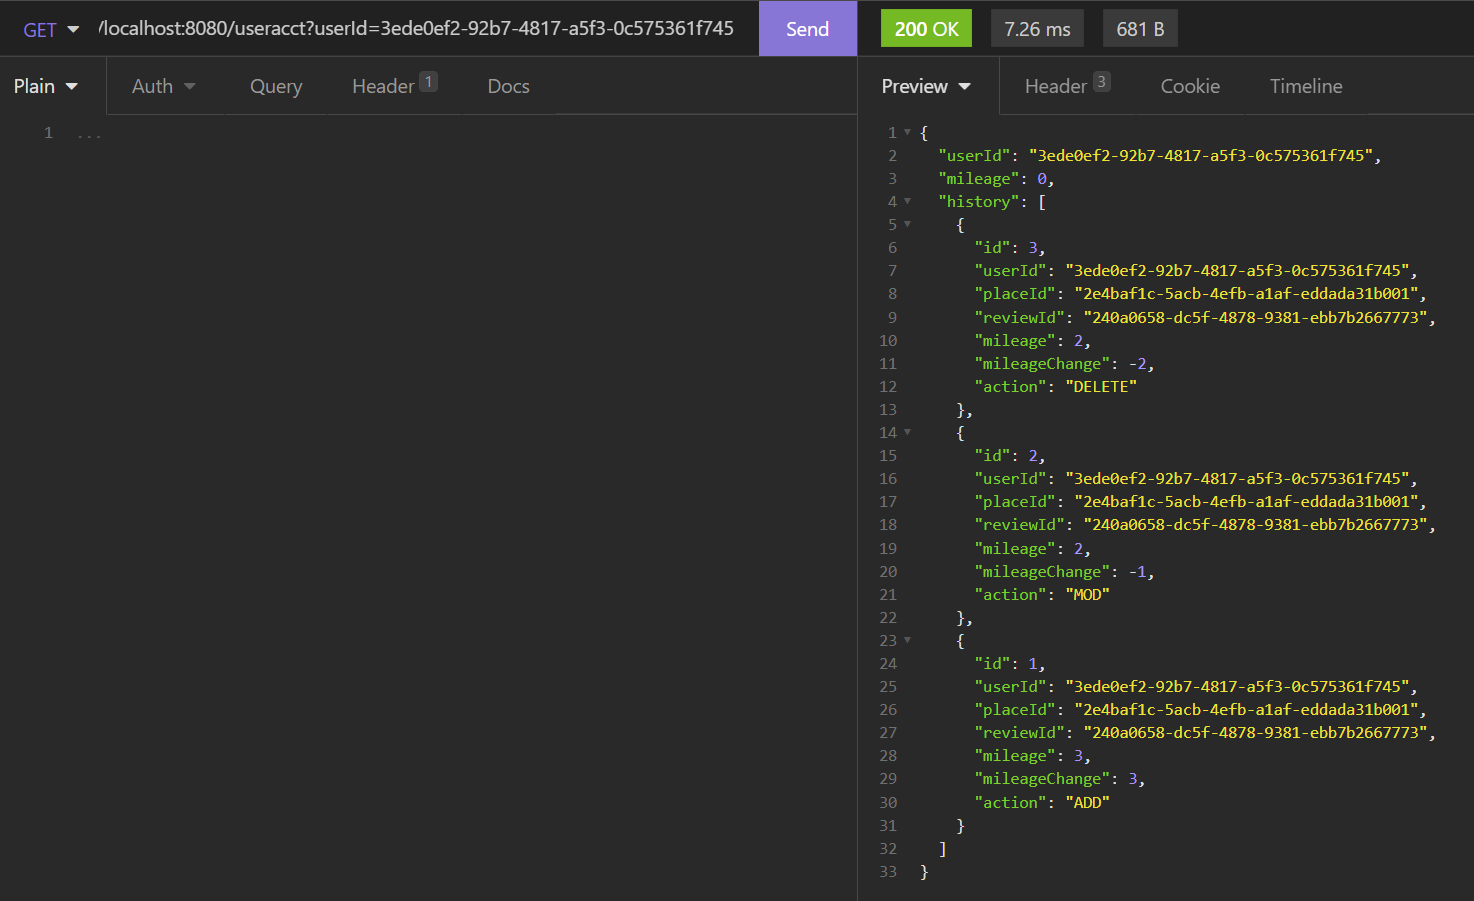
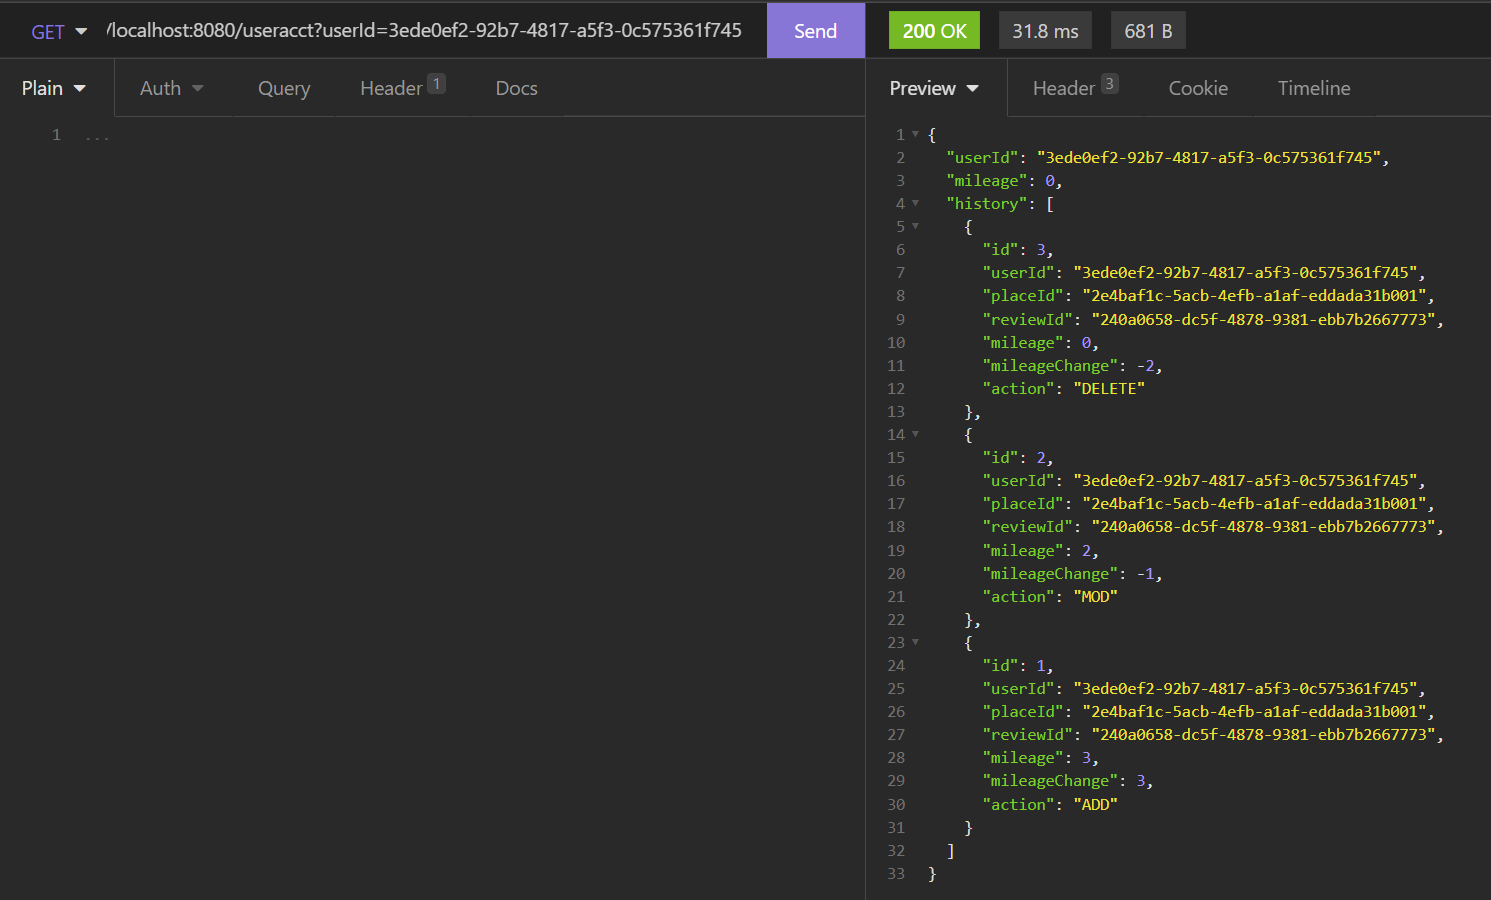
리드미 수정 삭제 관련 수정

diff --git a/ReplyMileageAPI/src/main/java/com/triple/replymileageapi/mileagehist/MileageHistServiceImpl.java b/ReplyMileageAPI/src/main/java/com/triple/replymileageapi/mileagehist/MileageHistServiceImpl.java
@@ -60,7 +60,7 @@ public class MileageHistServiceImpl implements MileageHistService{
                 .userAcct(preMileageHist.getUserAcct())
                 .placeId(preMileageHist.getPlaceId())
                 .review(preMileageHist.getReview())
-                .mileage(preMileageHist.getMileage())
+                .mileage(preMileageHist.getMileage() + mileage)
                 .mileageChange(mileage)
                 .action("DELETE")
                 .useFlag("N")

diff --git a/README.md b/README.md
@@ -80,7 +80,7 @@ alter table mileage_hist
   </details>
   
   ---
-  
+
 # **API 사용 예시(POST)**  
 ## ADD  
   
@@ -132,7 +132,7 @@ alter table mileage_hist
 <img width="713" alt="DEL_존재하지 않는 리뷰" src="https://user-images.githubusercontent.com/32235824/177032885-8fa93f11-9060-416d-bcc5-dc89439abdff.PNG">
   
 ### ㅇ 요청 이후 계좌 정보
-<img width="737" alt="DEL_삭제 이후 계좌" src="https://user-images.githubusercontent.com/32235824/177032884-420b4097-516a-4d45-9377-08991725cbc0.PNG">
+<img width="746" alt="DEL_삭제 이후 계좌" src="https://user-images.githubusercontent.com/32235824/177034500-1f09eb2d-54ec-41c7-a480-24bf193c5cf5.PNG">
   
   </details>
 
